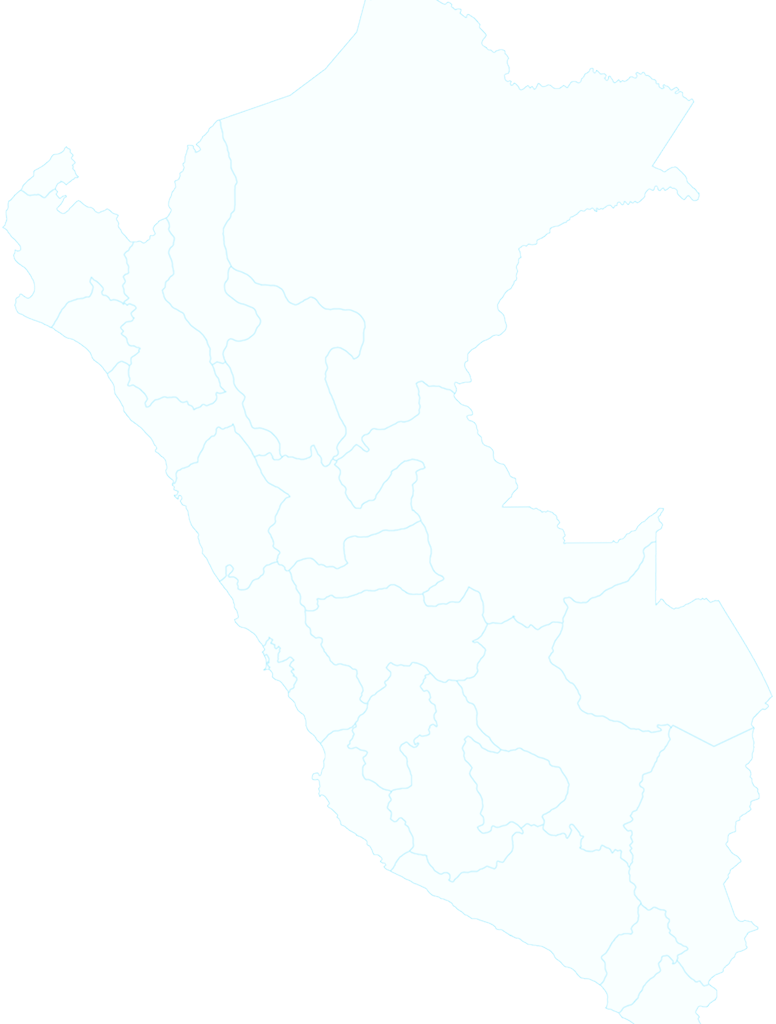
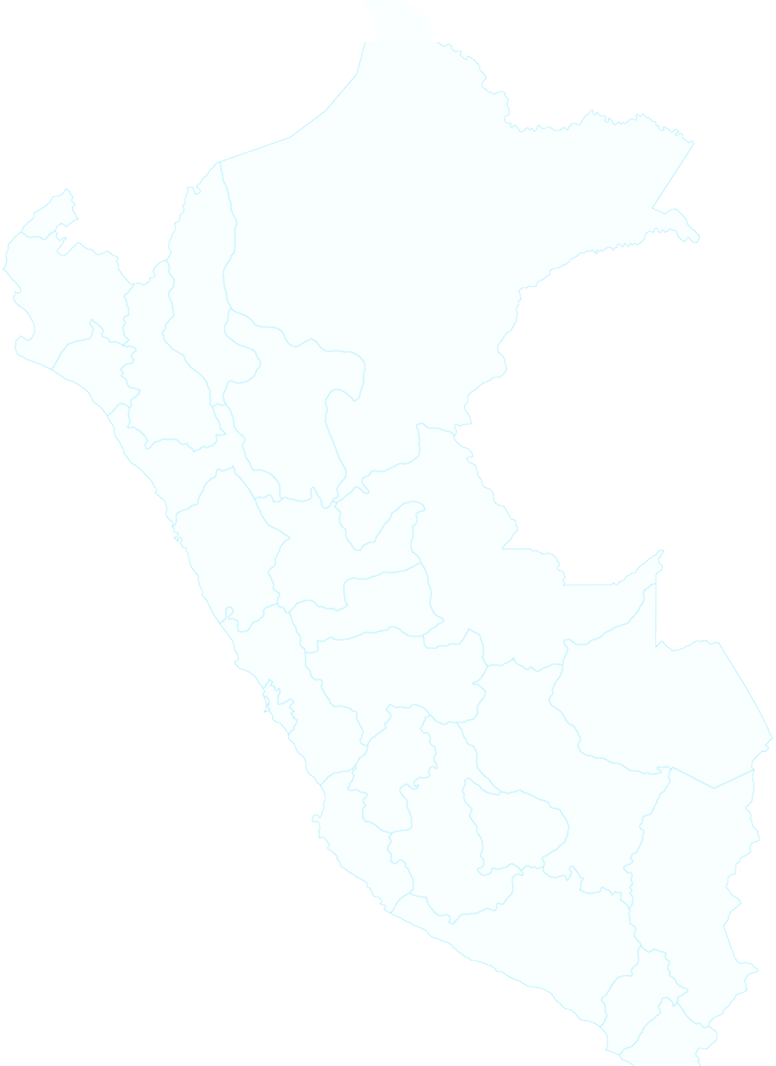
Login para pantallas anchas: version estirada de Figma (1920x1080) con la imagen mas grande y el formulario sin crecer
Con pantallas 16:9 el login mostraba el formulario enorme (hasta 1,9 veces) y la imagen de la izquierda
en 45 % del ancho. El Figma "LOGIN VERSION ESTIRADA" pide lo contrario: imagen de 1123 de 1920 px (58 %)
y formulario con su tamano de diseno (387 px).

- Dos composiciones segun la forma de la pantalla: relacion ancho/alto de 1,6 o mas usa la estirada;
  menos de 1,6 sigue con LOGIN 5 (1440x1024), que queda pixel por pixel igual que antes.
- Las posiciones de cada pieza pasan a variables CSS (--hero-w, --foto-x, --mapa-x...) que la version
  ancha redefine: foto de 816 px, mapa mas a la derecha, chips abajo junto a la foto, puntos de 34/34/26 px,
  fondo liso, campos con borde fino. Medido contra el Figma por registro de imagen: titulo, etiquetas,
  campos, boton y enlaces caen a +-1 px.
- Se quita el crecimiento del formulario (--relleno / tope de 1,9): lo que sobra es de la imagen.
- El mapa trae 42 px mas por arriba (los que el Figma estirado deja ver) y los puntos viajan con el mapa.

diff --git a/src/login.css b/src/login.css
@@ -1,7 +1,10 @@
-/* Inicio de sesión — diseño de Figma «LOGIN 5» (lienzo de 1440 × 1024).
-   Todas las medidas están en px de diseño y se multiplican por --u (cuántos px reales vale uno de diseño): la composición se
-   escala completa con la altura/anchura de la pantalla y se ve igual que el diseño. Fuentes: Be Vietnam Pro y Beiruti (OFL, en /public/fonts).
-   Textos, foto, mapa y puntos salen de public/marca/login.json. */
+/* Inicio de sesión — dos composiciones de Figma, una por forma de pantalla:
+   · «LOGIN 5», lienzo de 1440 × 1024, para pantallas casi cuadradas (relación ancho/alto menor de 1,6);
+   · «LOGIN VERSION ESTIRADA», lienzo de 1920 × 1080, para pantallas anchas (relación de 1,6 o más): la imagen ocupa más y el formulario
+     conserva su tamaño de diseño (387 px) en vez de crecer.
+   Todas las medidas están en px de diseño y se multiplican por --u (cuántos px reales vale uno de diseño): la composición se escala
+   completa con la pantalla y se ve igual que el diseño. La posición de cada pieza son variables (--hero-w, --foto-x…) que la versión
+   ancha redefine. Fuentes: Be Vietnam Pro y Beiruti (OFL, en /public/fonts). Textos, foto, mapa y puntos salen de public/marca/login.json. */
 
 @font-face { font-family: "Be Vietnam Pro"; font-weight: 300; font-style: normal; font-display: swap; src: url("/fonts/BeVietnamPro-300.woff2") format("woff2"); }
 @font-face { font-family: "Be Vietnam Pro"; font-weight: 400; font-style: normal; font-display: swap; src: url("/fonts/BeVietnamPro-400.woff2") format("woff2"); }
@@ -14,7 +17,13 @@
 
 .login-screen {
   /* 1 px de diseño = --u. Nunca baja de 0,66 px (por debajo la página se desplaza en vez de encogerse más). */
-  --u: max(0.66px, min(calc(100vw / 1440), calc(100vh / 1024)));
+  --lienzo-w: 1440; --lienzo-h: 1024;
+  --u: max(0.66px, min(calc(100vw / var(--lienzo-w)), calc(100vh / var(--lienzo-h))));
+  /* Composición de «LOGIN 5» (px de diseño). La versión ancha, al final del archivo, cambia estos valores. */
+  --hero-w: 819; --mapa-x: 300; --mapa-y: -42; --foto-w: 679; --foto-x: 0; --foto-bottom: -62;
+  --brand-x: 65; --brand-y: 65; --titular-x: 65; --titular-y: 174; --chips-x: 73; --chips-y: 316; --chips-gap: 16; --chips-dx: 54;
+  --form-dy: 16; --titulo-dx: 0; --brand-gap: 9; --titular-ls: 0.05em; --pin-d: 35; --pin-d-rojo: 35; --pin-punto: 15;
+  --sub-dy: 0; --sub-gap: 51; --foot-mt: 22; --foot-fs: 9; --foot-min: 10px; --campo2-dy: 0; --slot-h: 72; --campo-sombra: 0 2px 3px rgba(20, 24, 60, 0.13), 0 0 0 1px rgba(20, 24, 60, 0.035);
   min-height: 100vh; display: flex; background: #f9faff; color: #000; color-scheme: light;
   font-family: "Be Vietnam Pro", ui-sans-serif, system-ui, "Segoe UI", Roboto, Arial, sans-serif;
   /* El inicio de sesión es siempre claro, aunque el panel esté en tema oscuro */
@@ -25,62 +34,65 @@
 
 /* ─────────────── Lado izquierdo ─────────────── */
 .login-hero {
-  position: relative; flex: 0 0 calc(819 * var(--u)); height: max(100vh, calc(1024 * var(--u))); overflow: hidden;
+  position: relative; flex: 0 0 calc(var(--hero-w) * var(--u)); height: max(100vh, calc(var(--lienzo-h) * var(--u))); overflow: hidden;
   background: linear-gradient(180deg, #d3dbff 0%, #e4edff 21%, #e7f1ff 36%, #e7f1ff 100%);
 }
 .login-hero img { display: block; max-width: none; user-select: none; -webkit-user-drag: none; pointer-events: none; }
-.login-hero .mapa { position: absolute; left: calc(300 * var(--u)); top: 0; width: calc(776 * var(--u)); height: auto; opacity: 0.8; }
-.login-hero .foto { position: absolute; left: 0; bottom: calc(-62 * var(--u)); width: calc(679 * var(--u)); height: auto; z-index: 1; }
+.login-hero .mapa-capa { position: absolute; left: calc(var(--mapa-x) * var(--u)); top: calc(var(--mapa-y) * var(--u)); width: calc(776 * var(--u)); height: calc(1066 * var(--u)); }
+.login-hero .mapa { width: 100%; height: auto; opacity: 0.8; }
+.login-hero .foto { position: absolute; left: calc(var(--foto-x) * var(--u)); bottom: calc(var(--foto-bottom) * var(--u)); width: calc(var(--foto-w) * var(--u)); height: auto; z-index: 1; }
 
-.login-hero .brand { position: absolute; left: calc(65 * var(--u)); top: calc(65 * var(--u)); display: flex; align-items: flex-start; gap: calc(9 * var(--u)); z-index: 3; }
+.login-hero .brand { position: absolute; left: calc(var(--brand-x) * var(--u)); top: calc(var(--brand-y) * var(--u)); display: flex; align-items: flex-start; gap: calc(var(--brand-gap) * var(--u)); z-index: 3; }
 .login-hero .marca-cuadro { width: calc(45 * var(--u)); height: calc(45 * var(--u)); border-radius: calc(9 * var(--u)); background: linear-gradient(135deg, #3046c8 0%, #f90206 100%); flex-shrink: 0; }
 .login-hero .brand-texto { margin-top: calc(8.5 * var(--u)); line-height: 1.25; }
 .login-hero .brand-texto b { display: block; font-weight: 600; font-size: max(11px, calc(15 * var(--u))); color: #242424; white-space: nowrap; }
 .login-hero .brand-texto span { display: block; font-weight: 500; font-size: max(10px, calc(10 * var(--u))); color: #596a92; white-space: nowrap; }
 
-.login-hero .titular { position: absolute; left: calc(65 * var(--u)); top: calc(174 * var(--u)); margin: 0; z-index: 3; font-weight: 400; font-size: max(28px, calc(45 * var(--u))); line-height: calc(50 * var(--u)); color: #242424; white-space: nowrap; }
-.login-hero .titular .l1 { display: block; letter-spacing: 0.05em; }
+.login-hero .titular { position: absolute; left: calc(var(--titular-x) * var(--u)); top: calc(var(--titular-y) * var(--u)); margin: 0; z-index: 3; font-weight: 400; font-size: max(28px, calc(45 * var(--u))); line-height: calc(50 * var(--u)); color: #242424; white-space: nowrap; }
+.login-hero .titular .l1 { display: block; letter-spacing: var(--titular-ls); }
 .login-hero .titular .l2 { display: block; }
 .login-hero .titular em { display: inline-block; padding-right: 0.08em; font-style: italic; font-weight: 600; letter-spacing: 0.01em; background: linear-gradient(90deg, #7b2c85 0%, #e20a1e 100%); -webkit-background-clip: text; background-clip: text; color: transparent; }
 .login-hero .titular .en { margin-left: calc(14 * var(--u)); }
 
-.login-hero .chips { position: absolute; left: calc(73 * var(--u)); top: calc(316 * var(--u)); display: flex; flex-direction: column; align-items: flex-start; gap: calc(16 * var(--u)); z-index: 3; }
+.login-hero .chips { position: absolute; margin: 0; left: calc(var(--chips-x) * var(--u)); top: calc(var(--chips-y) * var(--u)); display: flex; flex-direction: column; align-items: flex-start; gap: calc(var(--chips-gap) * var(--u)); z-index: 3; }
 .login-hero .chips span { display: inline-block; padding: calc(4 * var(--u)) calc(14 * var(--u)); border-radius: 999px; background: #cadfff; color: #242424; font-weight: 400; font-size: max(13px, calc(20 * var(--u))); line-height: calc(40 * var(--u)); white-space: nowrap; }
-.login-hero .chips span + span { margin-left: calc(54 * var(--u)); }
+.login-hero .chips span + span { margin-left: calc(var(--chips-dx) * var(--u)); }
 .login-hero .chips span:first-child { padding-inline: calc(17.25 * var(--u)); }
 
 /* Puntos de visita sobre el mapa: anillo + punto de color, y su etiqueta */
-.login-hero .pin { position: absolute; z-index: 2; width: calc(35 * var(--u)); height: calc(35 * var(--u)); border-radius: 50%; border: max(1px, calc(1 * var(--u))) solid var(--c); box-sizing: border-box; display: flex; align-items: center; justify-content: center; }
-.login-hero .pin::after { content: ""; width: calc(15 * var(--u)); height: calc(15 * var(--u)); border-radius: 50%; background: var(--c); }
+.login-hero .pin { position: absolute; z-index: 2; width: calc(var(--pin-d) * var(--u)); height: calc(var(--pin-d) * var(--u)); margin: calc(var(--pin-d) * var(--u) / -2) 0 0 calc(var(--pin-d) * var(--u) / -2); border-radius: 50%; border: max(1px, calc(1 * var(--u))) solid var(--c); box-sizing: border-box; display: flex; align-items: center; justify-content: center; }
+.login-hero .pin[data-tono="rojo"] { width: calc(var(--pin-d-rojo) * var(--u)); height: calc(var(--pin-d-rojo) * var(--u)); margin: calc(var(--pin-d-rojo) * var(--u) / -2) 0 0 calc(var(--pin-d-rojo) * var(--u) / -2); }
+.login-hero .pin::after { content: ""; width: calc(var(--pin-punto) * var(--u)); height: calc(var(--pin-punto) * var(--u)); border-radius: 50%; background: var(--c); }
 .login-hero .pin-etiqueta { position: absolute; z-index: 2; display: flex; align-items: center; justify-content: center; border-radius: 999px; background: #c6cbce; color: #fff; font-style: italic; font-weight: 400; font-size: max(8px, calc(10 * var(--u))); line-height: 1; white-space: nowrap; }
 
 /* ─────────────── Lado derecho ─────────────── */
-.login-panel { flex: 1 1 auto; min-width: 0; min-height: max(100vh, calc(1024 * var(--u))); background: #f9faff; display: flex; justify-content: center; align-items: center; container-type: inline-size; }
-/* El formulario ocupa 62 % del ancho de su panel en el tamaño del diseño (1440 de ancho) y crece hasta ~80 % en pantallas más anchas, para llenar el blanco en vez de quedar chico entre mucho espacio.
-   Mínimo 0,83 px de diseño (formulario de ~320 px) y tope para que el bloque nunca pase de ~78 % de la altura. Se centra en vertical con el leve desplazamiento del diseño. */
-.login-card { --relleno: clamp(62cqw, calc(62cqw + (100vw - 1440px) * 0.24), 80cqw); --uf: max(var(--u), 0.83px, min(calc(var(--relleno) / 387), calc(var(--u) * 1.9), calc(100vh / 560))); width: calc(387 * var(--uf)); max-width: none; margin-top: calc(16 * var(--uf)); }
+.login-panel { flex: 1 1 auto; min-width: 0; min-height: max(100vh, calc(var(--lienzo-h) * var(--u))); background: #f9faff; display: flex; justify-content: center; align-items: center; }
+/* El formulario mide 387 px de diseño y va centrado en su panel, igual que en las dos composiciones de Figma (no crece con la pantalla: lo que sobra es de la imagen).
+   Mínimo 0,83 px de diseño (formulario de ~320 px) para que siga legible en pantallas chicas. Se centra en vertical con el leve desplazamiento del diseño (--form-dy). */
+.login-card { --uf: max(var(--u), 0.83px); width: calc(387 * var(--uf)); max-width: none; margin-top: calc(var(--form-dy) * var(--uf)); }
 .login-mobile-brand { display: none; }
 
-.login-title { margin: 0; font-family: "Beiruti", "Be Vietnam Pro", sans-serif; font-weight: 600; font-size: max(24px, calc(40 * var(--uf))); line-height: calc(48 * var(--uf)); letter-spacing: 0.2em; color: #000; }
+.login-title { margin: 0; padding-left: calc(var(--titulo-dx) * var(--uf)); font-family: "Beiruti", "Be Vietnam Pro", sans-serif; font-weight: 600; font-size: max(24px, calc(40 * var(--uf))); line-height: calc(48 * var(--uf)); letter-spacing: 0.2em; color: #000; }
 .login-title.paso { font-size: max(20px, calc(28 * var(--uf))); line-height: 1.2; letter-spacing: 0.1em; }
-.login-sub { margin: calc(-2 * var(--uf)) 0 0; font-weight: 300; font-size: max(12px, calc(14 * var(--uf))); line-height: calc(20 * var(--uf)); color: #c0c0c0; }
+.login-sub { margin: calc((-2 + var(--sub-dy)) * var(--uf)) 0 0; padding-left: calc(var(--titulo-dx) * var(--uf)); font-weight: 300; font-size: max(12px, calc(14 * var(--uf))); line-height: calc(20 * var(--uf)); color: #c0c0c0; }
 
 .login-card .field { margin: 0; display: block; gap: 0; }
-.login-sub + .field { margin-top: calc(51 * var(--uf)); }
+.login-sub + .field { margin-top: calc(var(--sub-gap) * var(--uf)); }
 .login-card .callout + .field { margin-top: calc(16 * var(--uf)); }
 .login-card .field + .field { margin-top: calc(13 * var(--uf)); }
 .login-card .field label { display: block; margin: 0 0 calc(3 * var(--uf)); padding-left: calc(12 * var(--uf)); font-weight: 400; font-size: max(12px, calc(14 * var(--uf))); line-height: calc(20 * var(--uf)); color: #000; }
 .login-card .field input {
   display: block; width: 100%; height: calc(40 * var(--uf)); min-height: 38px; box-sizing: border-box; padding: 0 calc(18 * var(--uf)); border: 0; border-radius: 999px; background: #fff; color: #242424;
   font-family: inherit; font-weight: 400; font-size: max(13px, calc(14 * var(--uf)));
-  box-shadow: 0 2px 3px rgba(20, 24, 60, 0.13), 0 0 0 1px rgba(20, 24, 60, 0.035);
+  box-shadow: var(--campo-sombra);
   transition: box-shadow 0.15s;
 }
 .login-card .field input:focus-visible { outline: none; box-shadow: 0 2px 3px rgba(20, 24, 60, 0.13), 0 0 0 3px rgba(53, 73, 198, 0.3); }
 .login-card .field input:disabled { opacity: 0.7; }
 
 /* Espacio entre la contraseña y el botón (como en el diseño); aquí aparece el error si lo hay */
-.login-slot { min-height: calc(72 * var(--uf)); display: flex; align-items: center; }
+.login-card .field + .field input { margin-top: calc(var(--campo2-dy) * var(--uf)); }
+.login-slot { min-height: calc(var(--slot-h) * var(--uf)); display: flex; align-items: center; }
 .login-slot .error-box { width: 100%; margin: calc(8 * var(--uf)) 0; }
 
 .login-cta {
@@ -98,7 +110,7 @@
 .login-sso:hover { background: rgba(53, 73, 198, 0.06); }
 .login-sso:focus-visible { outline: 3px solid rgba(53, 73, 198, 0.35); outline-offset: 2px; }
 
-.login-foot { margin-top: calc(22 * var(--uf)); flex-wrap: nowrap; display: flex; flex-direction: column; align-items: flex-start; gap: calc(16 * var(--uf)); padding-left: calc(12 * var(--uf)); font-size: max(10px, calc(9 * var(--uf))); line-height: calc(14 * var(--uf)); }
+.login-foot { margin-top: calc(var(--foot-mt) * var(--uf)); flex-wrap: nowrap; display: flex; flex-direction: column; align-items: flex-start; gap: calc(16 * var(--uf)); padding-left: calc(12 * var(--uf)); font-size: max(var(--foot-min), calc(var(--foot-fs) * var(--uf))); line-height: calc(14 * var(--uf)); }
 .login-foot a { text-decoration: underline; text-underline-offset: 2px; }
 .login-foot a.privacidad { color: #3448c6; }
 .login-foot a.soporte { color: #c7c7c8; }
@@ -120,6 +132,22 @@
   .login-title { font-size: 32px; line-height: 40px; }
 }
 @media (prefers-reduced-motion: reduce) { .login-card .field input, .login-cta { transition: none; } }
+
+/* ─────────────── Pantallas anchas: «LOGIN VERSION ESTIRADA» (lienzo de 1920 × 1080) ───────────────
+   La imagen ocupa 1123 px de los 1920 (58 %), la foto y el mapa crecen y se mueven, los chips bajan junto al hombre de la foto y el formulario
+   conserva sus 387 px de diseño. Medidas tomadas del Figma por registro de imagen: mapa 776 × 1024 en (570, 42) —más 42 px que el diseño de 1440 recorta por arriba—, foto 816 px en (-12, abajo), fondo liso #e4efff. */
+@media (min-width: 961px) and (min-aspect-ratio: 8/5) {
+  .login-screen:not(.solo-panel) {
+    --lienzo-w: 1920; --lienzo-h: 1080;
+    --hero-w: 1123; --mapa-x: 570; --mapa-y: 0; --foto-w: 816; --foto-x: -12; --foto-bottom: -1;
+    --brand-x: 88; --brand-y: 66; --brand-gap: 7; --titular-x: 87; --titular-ls: 0.058em; --chips-x: 681; --chips-gap: 23; --chips-dx: 49;
+    --pin-d: 34; --pin-d-rojo: 26; --pin-punto: 13.5;
+    --form-dy: -6; --titulo-dx: 3; --campo2-dy: 5; --slot-h: 71; --sub-dy: 2; --sub-gap: 49; --foot-mt: 21; --foot-min: 9px;
+    --campo-sombra: 0 0 0 1px #e1e3e5, 0 2px 4px rgba(45, 35, 95, 0.11);
+  }
+  .login-screen:not(.solo-panel) .login-hero { background: #e4efff; }
+  .login-screen:not(.solo-panel) .login-hero .chips { top: auto; bottom: calc(106 * var(--u)); flex-direction: column-reverse; }
+}
 
 /* Pantalla del inicio con la cuenta Sulotec (/sso): solo el panel, centrado, con título más corto */
 .login-screen.solo-panel { --u: 1px; }

diff --git a/src/pages/LoginPage.tsx b/src/pages/LoginPage.tsx
@@ -5,9 +5,9 @@ import { useAuth } from "../AuthContext";
 import { request } from "../api";
 import "../login.css";
 
-// Diseño de Figma «LOGIN 5». Lo que se ve en el lado izquierdo (empresa, titular, chips, foto, mapa y puntos de visita) se lee de
-// public/marca/login.json, con las posiciones en px de diseño (lienzo de 1440 × 1024): cambiar la imagen o los textos de una
-// instalación no requiere tocar código. Si el archivo falta, se usan estos valores.
+// Diseño de Figma «LOGIN 5» (y su versión «estirada» para pantallas anchas, ver login.css). Lo que se ve en el lado izquierdo (empresa,
+// titular, chips, foto, mapa y puntos de visita) se lee de public/marca/login.json, con las posiciones de los puntos en px de diseño
+// del lienzo de 1440 × 1024: cambiar la imagen o los textos de una instalación no requiere tocar código. Si el archivo falta, se usan estos valores.
 type Etiqueta = { x: number; y: number; w: number; h: number };
 type Punto = { nombre: string; x: number; y: number; tono: string; etiqueta?: Etiqueta };
 type MarcaLogin = { empresa: string; producto: string; titular: [string, string, string]; chips: string[]; titulo: string; foto: string; mapa: string; puntos: Punto[] };
@@ -23,6 +23,9 @@ const MARCA_DEFECTO: MarcaLogin = {
 const TONOS: Record<string, string> = { amarillo: "#ebe838", verde: "#40e045", rojo: "#e04040", azul: "#3549c6" };
 // px de diseño → longitud real (el CSS define --u según el tamaño de la pantalla)
 const du = (n: number) => `calc(${n} * var(--u))`;
+// Los puntos viajan con el mapa (en la versión ancha el mapa está en otro lugar): sus coordenadas se miden desde la esquina del mapa en «LOGIN 5».
+// La imagen trae 42 px más por arriba (los que solo se ven en la versión ancha), por eso su esquina está en y = -42 en ese lienzo.
+const MAPA_X = 300, MAPA_Y = -42;
 
 export default function LoginPage() {
   const { login, verifyMfa } = useAuth();
@@ -87,14 +90,16 @@ export default function LoginPage() {
   return (
     <div className="login-screen">
       <section className="login-hero" aria-hidden="true">
-        <img className="mapa" src={marca.mapa} alt="" width={776} height={1024} decoding="async" />
+        <div className="mapa-capa">
+          <img className="mapa" src={marca.mapa} alt="" width={776} height={1066} decoding="async" />
+          {marca.puntos.map((p) => (
+            <React.Fragment key={p.nombre}>
+              <span className="pin" data-tono={p.tono} style={{ left: du(p.x - MAPA_X), top: du(p.y - MAPA_Y), ["--c" as any]: TONOS[p.tono] || TONOS.azul }} />
+              {p.etiqueta ? <span className="pin-etiqueta" style={{ left: du(p.etiqueta.x - MAPA_X), top: du(p.etiqueta.y - MAPA_Y), width: du(p.etiqueta.w), height: du(p.etiqueta.h) }}>{p.nombre}</span> : null}
+            </React.Fragment>
+          ))}
+        </div>
         <img className="foto" src={marca.foto} alt="" width={1360} height={1360} decoding="async" fetchPriority="high" />
-        {marca.puntos.map((p) => (
-          <React.Fragment key={p.nombre}>
-            <span className="pin" style={{ left: du(p.x - 17.5), top: du(p.y - 17.5), ["--c" as any]: TONOS[p.tono] || TONOS.azul }} />
-            {p.etiqueta ? <span className="pin-etiqueta" style={{ left: du(p.etiqueta.x), top: du(p.etiqueta.y), width: du(p.etiqueta.w), height: du(p.etiqueta.h) }}>{p.nombre}</span> : null}
-          </React.Fragment>
-        ))}
         <div className="brand">
           <span className="marca-cuadro" />
           <div className="brand-texto"><b translate="no">{marca.producto}</b><span translate="no">{marca.empresa}</span></div>
